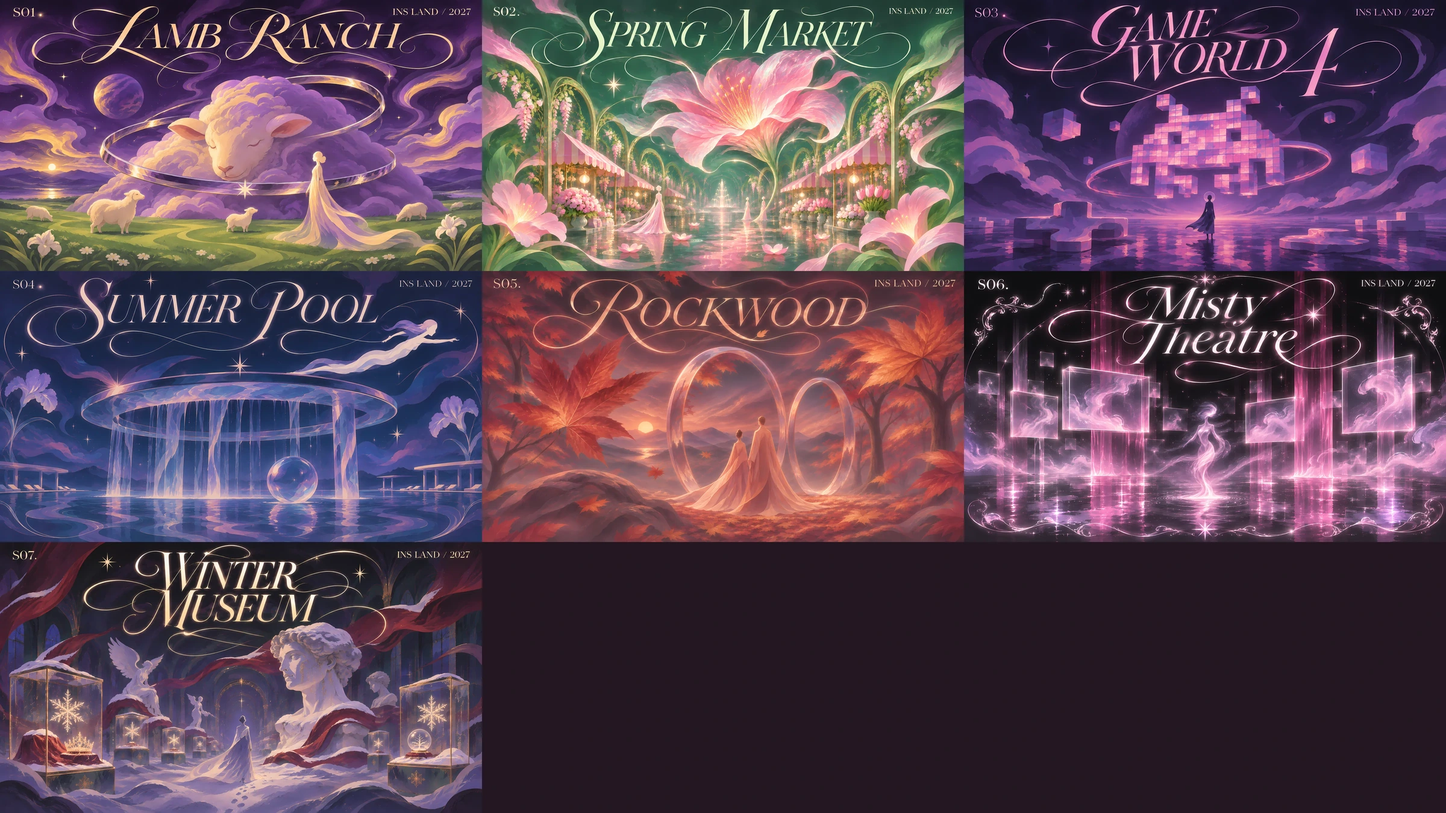
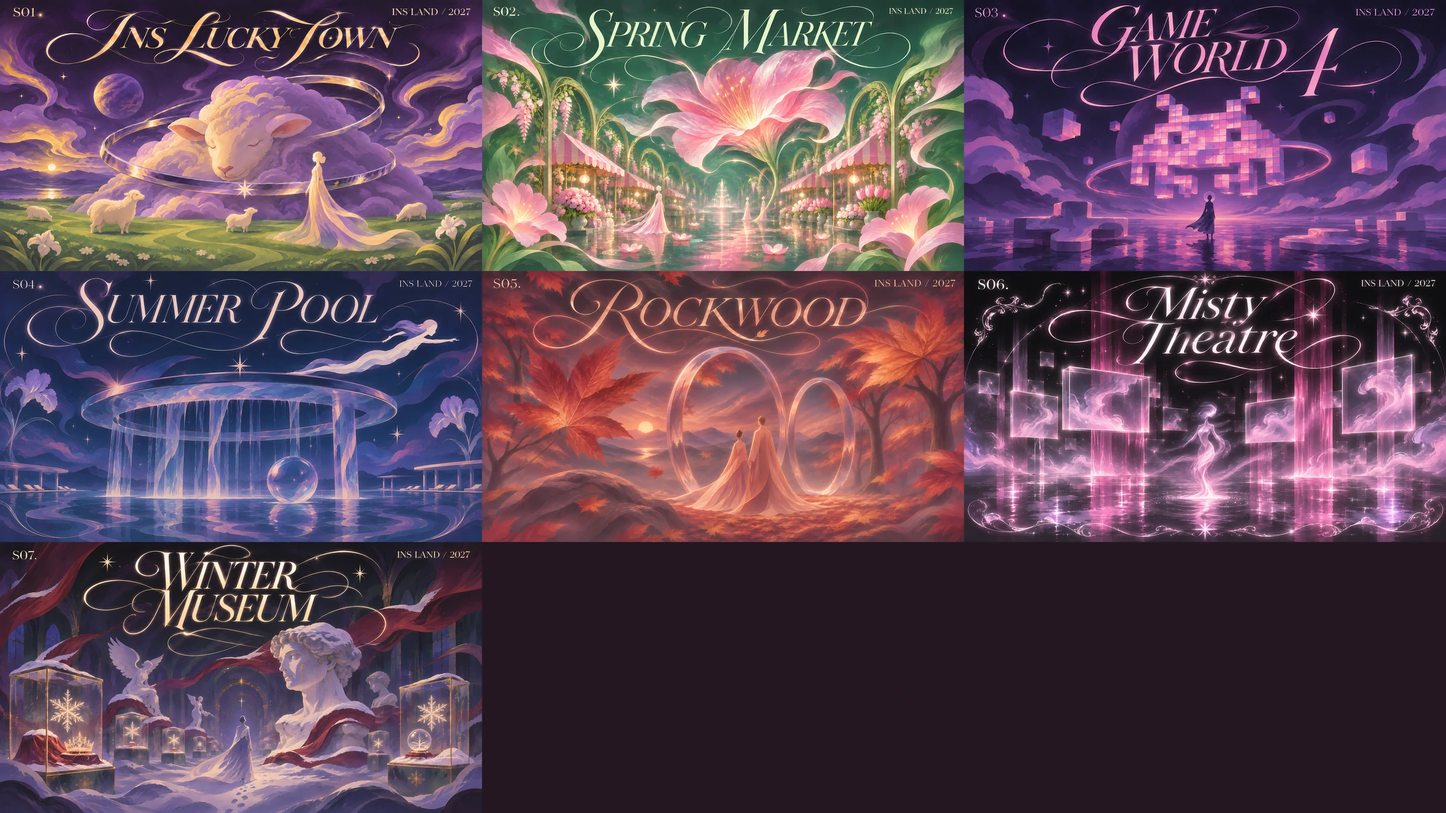
Update S01 to INS LUCKY TOWN with approved artwork and theme copy

Changed region(s): [[0.0, 0.0, 0.3125, 0.1244], [0.0938, 0.1244, 0.125, 0.1556]]

diff --git a/lib/planning-brief.ts b/lib/planning-brief.ts
@@ -14,11 +14,11 @@ export type PlanningBrief=z.infer<typeof planningBriefSchema>;
 
 const suggestions:Readonly<Partial<Record<string,PlanningBrief>>>={
   S01:{
-    positioning:'走进一座可以互动的奇想牧场。',
-    direction:'场景营造 × 轻量互动',
-    difference:'从静态拍照场景，升级为可参与的牧场世界。',
-    keywords:['牧场地标','角色互动','周中延展'],
-    storeTitle:'全楼开运计划',storeDirection:'各门店打造专属开年好运俱乐部，共创新春庆祝体验。',
+    positioning:'走进一座好事不断发生的奇想唐人街。',
+    direction:'华埠街景 × 灯光互动',
+    difference:'从单点新春装饰，升级为可探索、可参与的全楼好运街区。',
+    keywords:['华埠街区','好运灯场','羊年奇遇'],
+    storeTitle:'全楼开运计划',storeDirection:'各门店化身 INS TOWN 的好运据点，结合品牌特色打造灯光场景与羊年限定体验。',
   },
   S02:{
     positioning:'把春天做成一座会生长的市集。',

diff --git a/tests/planner.test.ts b/tests/planner.test.ts
@@ -116,13 +116,13 @@ test('a final settlement replaces legacy actuals and belongs to the month it was
 
 test('optional planning briefs survive backup and keep saved copy ahead of suggestions', () => {
   const item=seed()[0];
-  assert.ok(campaignBrief({...item,id:'S01'})?.positioning.includes('牧场'));
+  assert.ok(campaignBrief({...item,id:'S01'})?.positioning.includes('奇想唐人街'));
   const planningBrief={positioning:'自定义定位',direction:'',difference:'差异',keywords:['关键词']};
   const [saved]=readBackup(backup([{...item,id:'S01',planningBrief}]));
   assert.deepEqual(campaignBrief(saved),{
     ...planningBrief,
     storeTitle:'全楼开运计划',
-    storeDirection:'各门店打造专属开年好运俱乐部，共创新春庆祝体验。',
+    storeDirection:'各门店化身 INS TOWN 的好运据点，结合品牌特色打造灯光场景与羊年限定体验。',
   });
   assert.throws(()=>validateProjects([{...item,planningBrief:{...planningBrief,keywords:['一','二','三','四']}}]));
 });

diff --git a/app/login-editions.ts b/app/login-editions.ts
@@ -6,7 +6,7 @@ type ReelEdition={id:string;code:string;name:string;title:string;start:string;en
 const codes=['S01','S02','S03','S04','S05','S06','S07'] as const;
 // Public opening cards use the dates and named nodes from the supplied planning table.
 const planning:Record<typeof codes[number],{name:string;start:string;end:string;nodes:string[]}>={
-  S01:{name:'小羊牧场',start:'2027-01-22',end:'2027-03-15',nodes:['02.06 春节','02.14 情人节','02.20 元宵','03.08 女神月']},
+  S01:{name:'好事灯场',start:'2027-01-22',end:'2027-03-15',nodes:['02.06 春节','02.14 情人节','02.20 元宵','03.08 女神月']},
   S02:{name:'春日市场',start:'2027-03-26',end:'2027-05-24',nodes:['05.01 五一','05.20 520']},
   S03:{name:'游戏世界4',start:'2027-06-04',end:'2027-07-26',nodes:['06.09 端午']},
   S04:{name:'夏夜泳池',start:'2027-07-30',end:'2027-08-30',nodes:['08.08 七夕']},

diff --git a/app/campaign-gallery.tsx b/app/campaign-gallery.tsx
@@ -110,7 +110,7 @@ export function CampaignGallery({projects,artwork,activeId,onSelect,openProject,
 }
 
 export const campaignTitles:Record<string,{title:string;glow:string;wash:string;cover:readonly [string,string,string]}>={
-  S01:{title:'Lamb Ranch',glow:'#f3bb93',wash:'#b19acc',cover:['#342039','#8c536e','#efbda4']},
+  S01:{title:'INS LUCKY TOWN',glow:'#f3bb93',wash:'#b19acc',cover:['#342039','#8c536e','#efbda4']},
   S02:{title:'Spring Market',glow:'#f5a5b8',wash:'#73b5aa',cover:['#203436','#557370','#d8a6be']},
   S03:{title:'Game World 4',glow:'#f481cb',wash:'#ad80c9',cover:['#302039','#793e77','#d998d6']},
   S04:{title:'Summer Pool',glow:'#b7ebf7',wash:'#73abd9',cover:['#213047','#4d6687','#b1d4ec']},

diff --git a/app/layout.tsx b/app/layout.tsx
@@ -5,5 +5,5 @@ export const metadata = {
   robots: { index: false, follow: false },
 };
 export default function Layout({children}:{children:React.ReactNode}) {
-  return <html lang="zh-CN"><head><link rel="preload" as="image" href={(process.env.PLANNER_BASE_PATH||'')+'/campaign-opening/2027/print-atlas.webp'} fetchPriority="high"/></head><body>{children}</body></html>;
+  return <html lang="zh-CN"><head><link rel="preload" as="image" href={(process.env.PLANNER_BASE_PATH||'')+'/campaign-opening/2027/print-atlas.webp?v=s01-lucky-town-1'} fetchPriority="high"/></head><body>{children}</body></html>;
 }

diff --git a/app/campaign-opening-media.ts b/app/campaign-opening-media.ts
@@ -8,7 +8,7 @@ export type CampaignOpeningMedia = {
 };
 
 export const openingMedia: Readonly<Partial<Record<string, CampaignOpeningMedia>>> = {
-  S01: {stillImage:"./campaign-opening/2027/S01/cover.webp",videoEnabled:false,shade:'#351c35'},
+  S01: {stillImage:"./campaign-opening/2027/S01/cover.webp?v=s01-lucky-town-1",videoEnabled:false,shade:'#351c35'},
   S02: {stillImage:"./campaign-opening/2027/S02/cover.webp",videoEnabled:false},
   S03: {stillImage:"./campaign-opening/2027/S03/cover.webp",videoEnabled:false},
   S04: {stillImage:"./campaign-opening/2027/S04/cover.webp",videoEnabled:false},

diff --git a/app/login-reel.tsx b/app/login-reel.tsx
@@ -16,7 +16,7 @@ const sparks=[[8,24,26],[16,43,15],[24,15,21],[34,31,13],[63,14,22],[76,35,15],[
 export function LoginReel({busy,error,onLogin,onResume}:{
   busy:boolean;error:string;onResume?:()=>void;onLogin:(name:string,password:string,register:boolean)=>void;
 }) {
-  const image=publicAsset('campaign-opening/2027/print-atlas.webp');
+  const image=publicAsset('campaign-opening/2027/print-atlas.webp?v=s01-lucky-town-1');
   const [year,setYear]=useState<EditionYear>(2027);
   const [active,setActive]=useState(0);
   const [playing,setPlaying]=useState(false);

diff --git a/app/campaign-opening.tsx b/app/campaign-opening.tsx
@@ -22,7 +22,7 @@ function preparePoster(index:number) {
   const width=mobile?window.innerWidth*.8:Math.min(window.innerWidth-48,(window.innerHeight-48)*16/9)*.8;
   const pixels=width*Math.min(window.devicePixelRatio||1,2);
   const size=pixels<=1024?1024:pixels<=1600?1600:2560;
-  const src=original.replace(/cover\.webp$/, `cover-${size}.webp`);
+  const src=original.replace(/cover\.webp(?=\?|$)/, `cover-${size}.webp`);
   const cached=decodedPosters.get(src);
   if(cached)return cached;
   const img=new Image();

diff --git a/app/dreamscape-world.tsx b/app/dreamscape-world.tsx
@@ -44,7 +44,7 @@ export function useDreamscapeNavigation(
     if(!enabled||blocked||requested)return;
     let cancelled=false, timer=0;
     const artwork=new Image();
-    artwork.src=publicAsset('campaign-opening/2027/print-atlas.webp');
+    artwork.src=publicAsset('campaign-opening/2027/print-atlas.webp?v=s01-lucky-town-1');
     void artwork.decode().catch(()=>{}).then(()=>{
       if(cancelled)return;
       timer=window.setTimeout(()=>{if(!cancelled&&!document.hidden)setRequested(true);},0);
